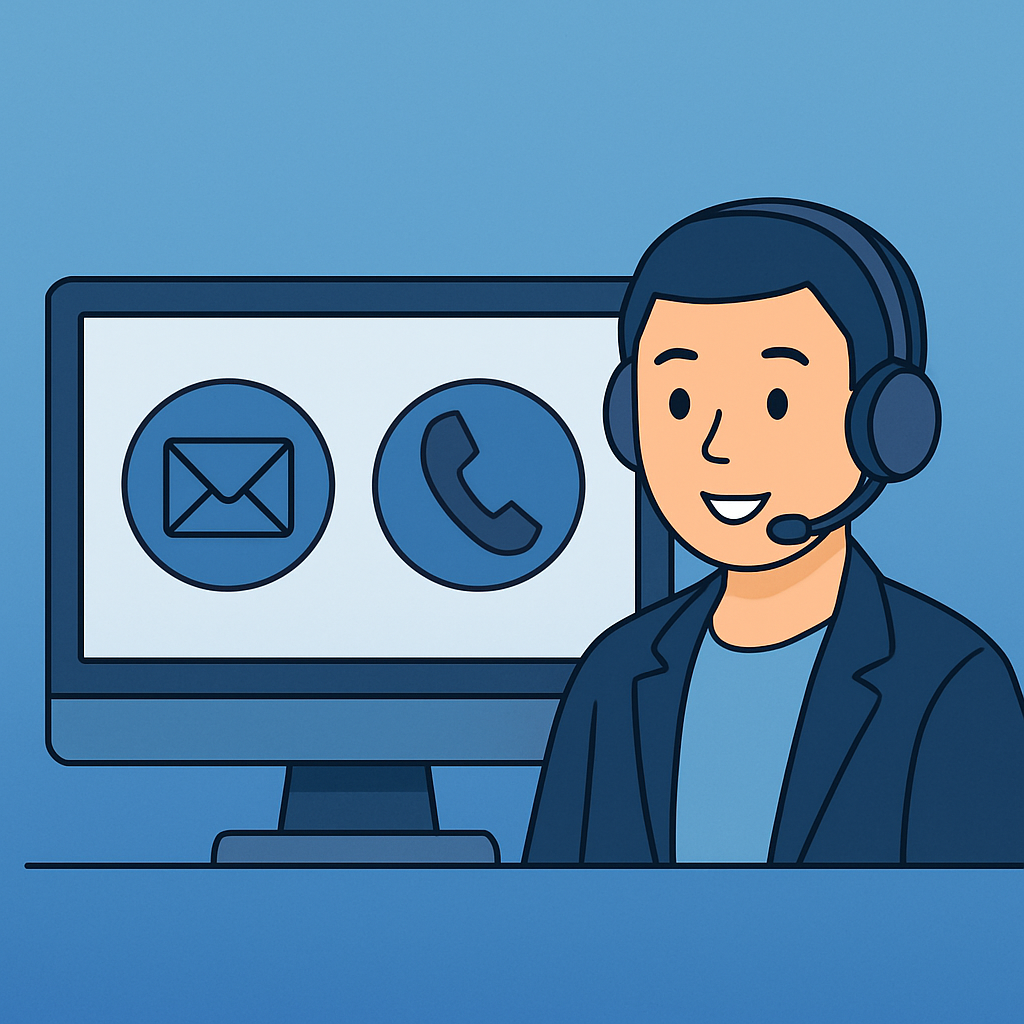
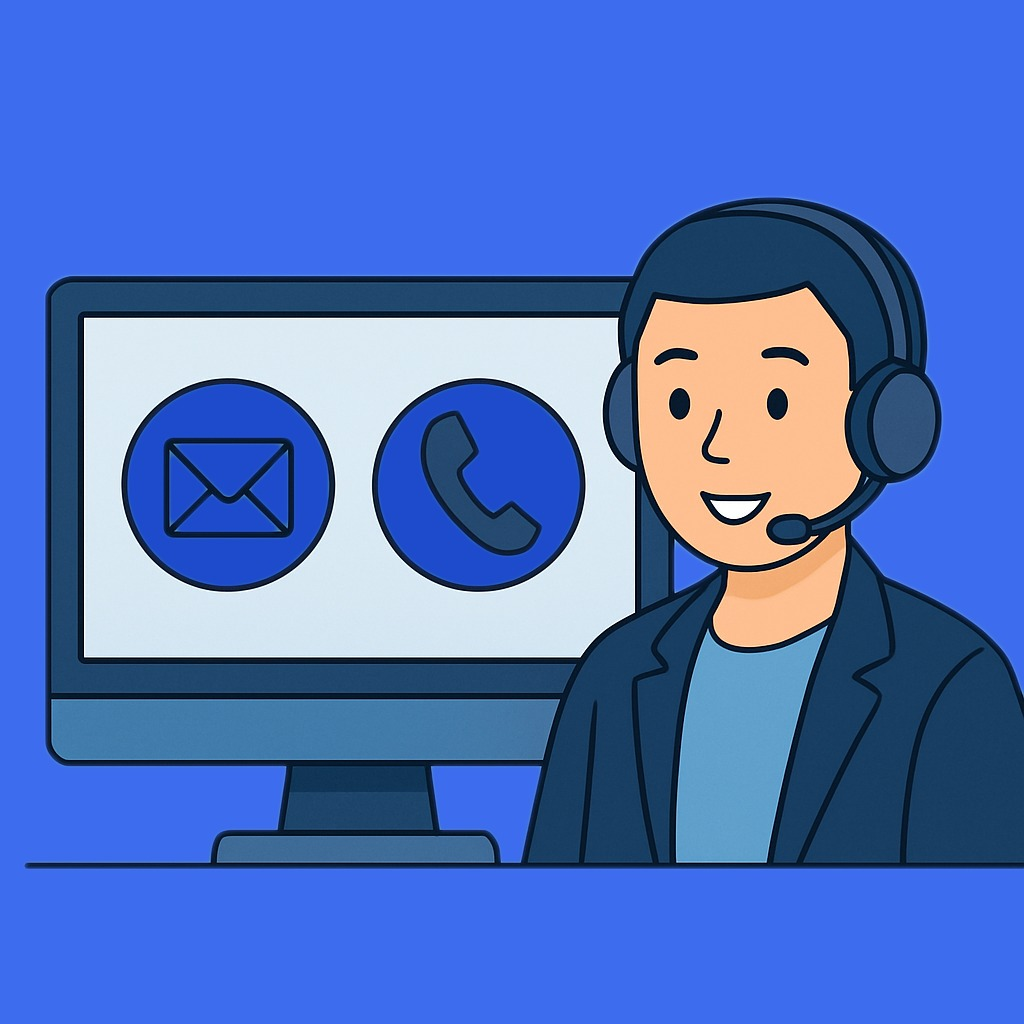
changed the contact us image and centered the form layot

diff --git a/css/contact.css b/css/contact.css
@@ -95,9 +95,9 @@ nav {
 .contact-layout {
     display: flex;
     flex-direction: row;
-    justify-content: space-around;
+    justify-content: center;
     align-items: flex-start;
-    gap: 40px;
+    gap: 10rem;
     padding: 20px;
     flex-wrap: wrap;
 }
@@ -107,6 +107,7 @@ nav {
 .image-container {
     flex: 1;
     max-width: 30%;
+    margin-left: 9rem;
 }
 
 .image-container img {
